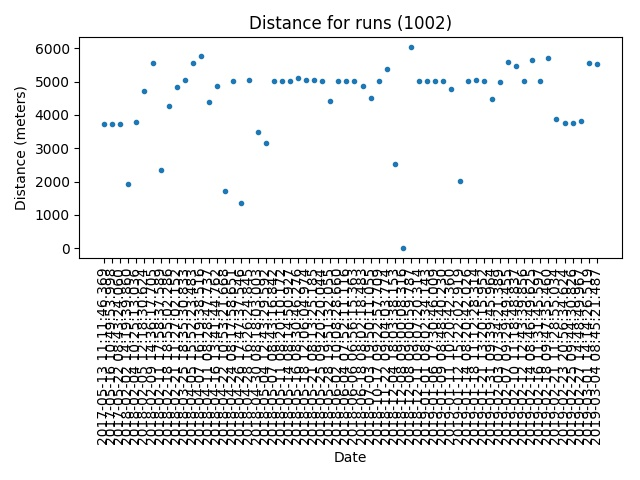
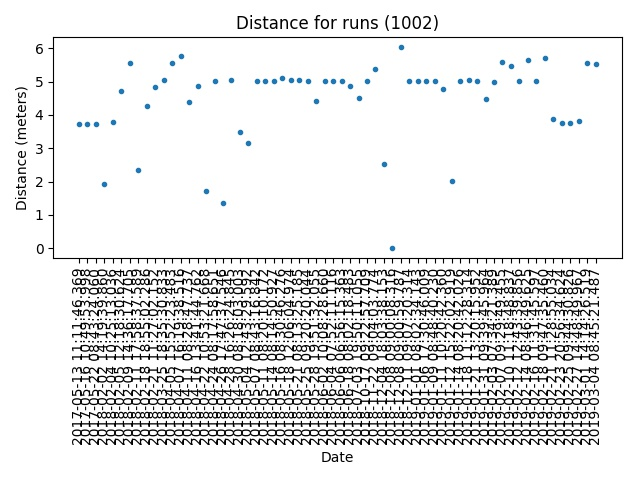
converted milliseconds and meters

diff --git a/exercise/running.py b/exercise/running.py
@@ -16,8 +16,8 @@ def main():
 	# select rows where the exercise code indicates running
 	running = df.loc[df['exercise_type'] == 1002]
 
-	mean_speed(running)
-	distance(running)
+	#mean_speed(running)
+	#distance(running)
 	duration(running)
 
 
@@ -48,11 +48,14 @@ def distance(running):
 	x = running['start_time']
 	y = running['distance']
 
+	# convert meters to kilometers
+	y = y / 1000	
+
 	# make a plot
 	plt.plot(x, y, linestyle='none', marker='.')
 	plt.title('Distance for runs (1002)')
 	plt.xlabel('Date')
-	plt.ylabel('Distance (meters)')
+	plt.ylabel('Distance (kilometers)')
 	plt.xticks(rotation='vertical')
 	plt.tight_layout()
 	plt.savefig('distance.jpg')
@@ -68,11 +71,14 @@ def duration(running):
 	x = running['start_time']
 	y = running['duration']
     
+	# convert milliseconds to minutes
+	y = y / 1000 / 60
+
 	# make a plot
 	plt.plot(x, y, linestyle='none', marker='.')
 	plt.title('Duration for runs (1002)')
 	plt.xlabel('Date')
-	plt.ylabel('Duration (milliseconds)')
+	plt.ylabel('Duration (minutes)')
 	plt.xticks(rotation='vertical')
 	plt.tight_layout()
 	plt.savefig('duration.jpg')
